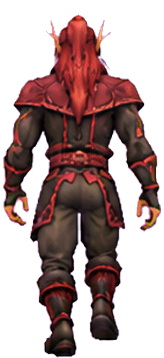
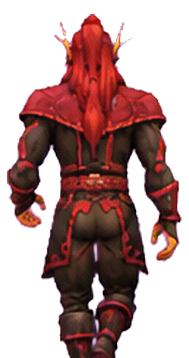
Blood elves 1-3 walk every way, and cleaner walk cuts
The re-roll had all six rows but cut its first side row off at the knees, so their side
walk takes one step from each sheet. Grid cuts keep a stray piece only when its middle is
inside the figure's box, and every walk frame drops detached scraps above or below the man
(a neighbour's boots over the cut line).

Claude-Session: https://claude.ai/code/session_015TQrViPbuGDeiupTWSG9TT

diff --git a/tools/asset_pipeline/slice_mount_sheet.py b/tools/asset_pipeline/slice_mount_sheet.py
@@ -92,7 +92,19 @@ def _grid_cut(rgb, hard, strength, content, ids, dry):
             if not n:
                 raise SystemExit(f"cell row {ri + 1} col {ci + 1} is empty")
             sizes = ndimage.sum(cell, lab, range(1, n + 1))
-            keep = [i + 1 for i in range(n) if sizes[i] >= max(MIN_BLOB / 6, sizes.max() * 0.04)]
+            # the figure is the biggest piece; another piece stays only if it's big enough AND touches the figure's own
+            # box (a dropped hand, a tail tip), so a neighbour's boots poking over the cut line are left out
+            main = int(np.argmax(sizes)) + 1
+            my_, mx_ = np.where(lab == main)
+            box = (mx_.min() - 6, my_.min() - 6, mx_.max() + 6, my_.max() + 6)
+            keep = [main]
+            for i in range(n):
+                if i + 1 == main or sizes[i] < max(MIN_BLOB / 6, sizes.max() * 0.04):
+                    continue
+                py, px = np.where(lab == i + 1)
+                cy, cx = py.mean(), px.mean()
+                if box[0] <= cx <= box[2] and box[1] + 6 <= cy <= box[3] - 6:      # its middle inside the figure's box
+                    keep.append(i + 1)
             mine = ndimage.binary_dilation(np.isin(lab, keep), structure=np.ones((3, 3)))
             ys, xs = np.where(mine)
             a, b, c, d = xs.min(), ys.min(), xs.max(), ys.max()

diff --git a/tools/asset_pipeline/slice_walk_rows.py b/tools/asset_pipeline/slice_walk_rows.py
@@ -36,7 +36,30 @@ def write_cycle(dst, walk):
     def bbox(im):
         return im.getbbox() or (0, 0, im.width, im.height)
 
+    def clean(im):
+        # a scrap of a neighbour (the boots of the man in the row above) can ride along with a cut; anything not joined
+        # to the man that sits wholly above or below him goes
+        import numpy as np
+        from scipy import ndimage
+        a = np.asarray(im).copy()
+        solid = a[..., 3] > 20
+        lab, n = ndimage.label(solid, structure=np.ones((3, 3)))
+        if n < 2:
+            return im
+        sizes = ndimage.sum(solid, lab, range(1, n + 1))
+        main = int(np.argmax(sizes)) + 1
+        ys = np.where(lab == main)[0]
+        top, bot = ys.min(), ys.max()
+        for i in range(1, n + 1):
+            if i == main:
+                continue
+            py = np.where(lab == i)[0]
+            if py.max() < top + 4 or py.min() > bot - 4:
+                a[lab == i, 3] = 0
+        return Image.fromarray(a, "RGBA")
+
     def trim(im):
+        im = clean(im)
         return im.crop(bbox(im))
 
     stand = {d: trim(Image.open(dst / f"{d}.png").convert("RGBA")) for d in ("down", "up", "right")}

diff --git a/docs/player_sprite_prompts.md b/docs/player_sprite_prompts.md
@@ -298,8 +298,8 @@ Sliced by `PYTHONPATH=. python3 tools/asset_pipeline/slice_player_sheet.py SHEET
 **Landed 20 Nov 2026 (Kyle tried three men a sheet, then two: "could i maybe have 3 figures side by side?"):** walk
 cycles for every human, orc, blood elf, Forsaken and tauren look (`tools/building_sheets/walk_*.png`). The references were
 each race's turnaround cut into its first three and last two men, one picture each. Blood elves 1 to 3 came back with
-five rows, missing the last walking-right step, so they walk front and back and stand still sideways until that
-sheet is re-rolled. The Veyr and the Aetherians landed the same afternoon: all five Veyr walk every way; Aetherians 4
+five rows the first time; the re-roll (`walk_blood_elf_a2.png`) had six but cut its first side row off at the knees,
+so their side walk takes the left-foot step from the first sheet and the right-foot step from the re-roll. The Veyr and the Aetherians landed the same afternoon: all five Veyr walk every way; Aetherians 4
 and 5 do too, and Aetherians 1 to 3 walk front and back (their first walking-right row came back cut off at the knees,
 so their side walk is left out until that sheet is re-rolled).
 
